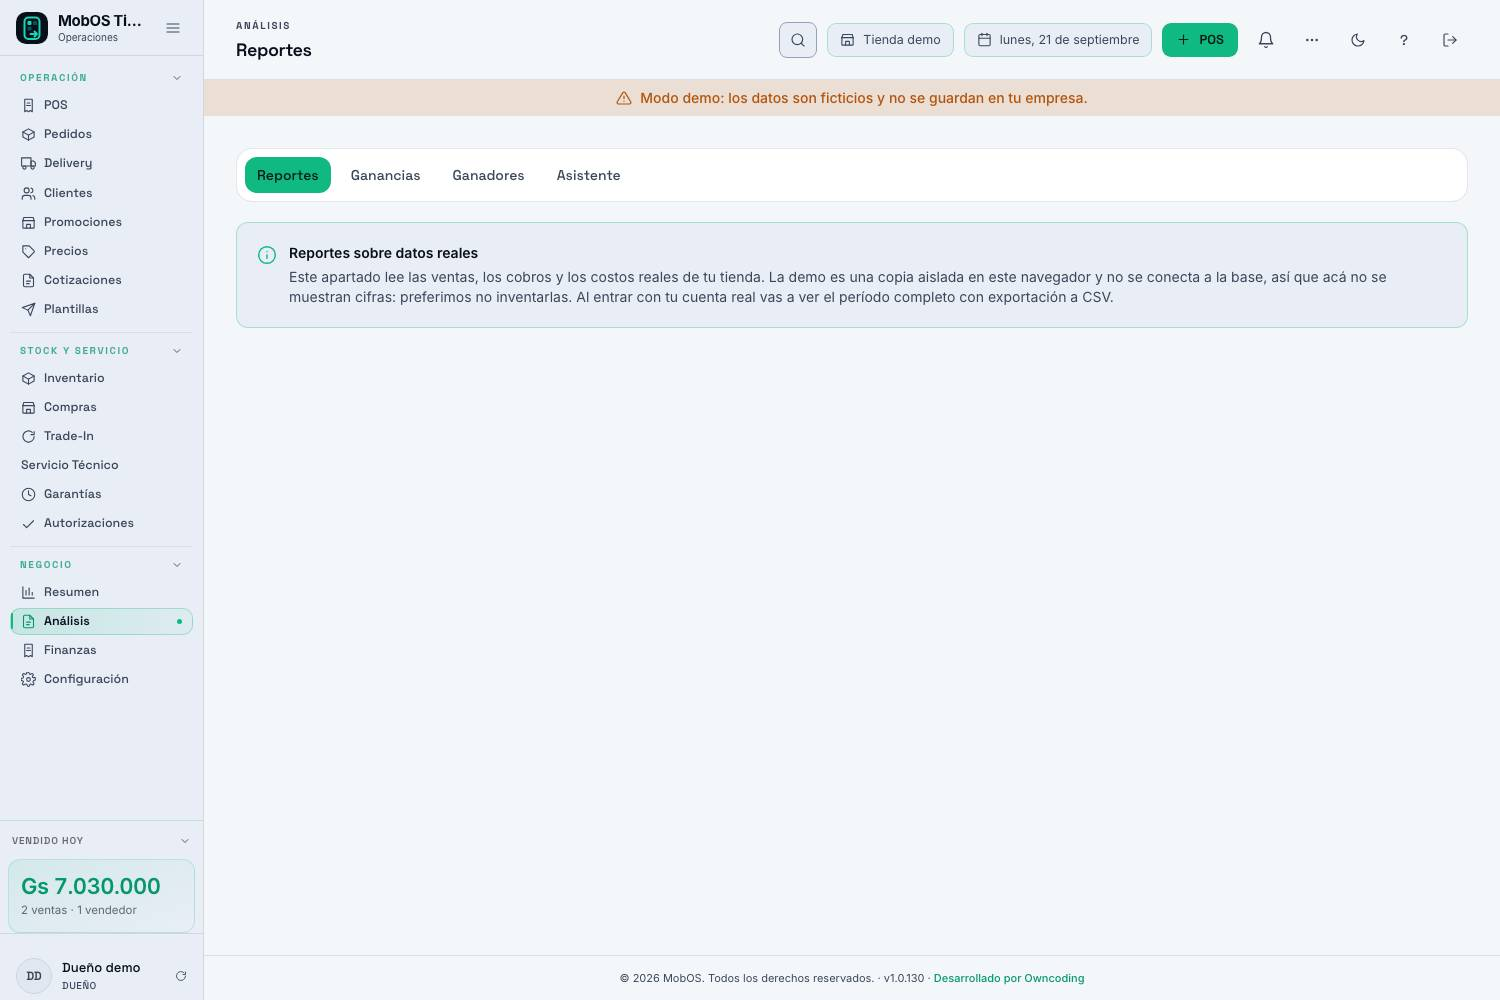
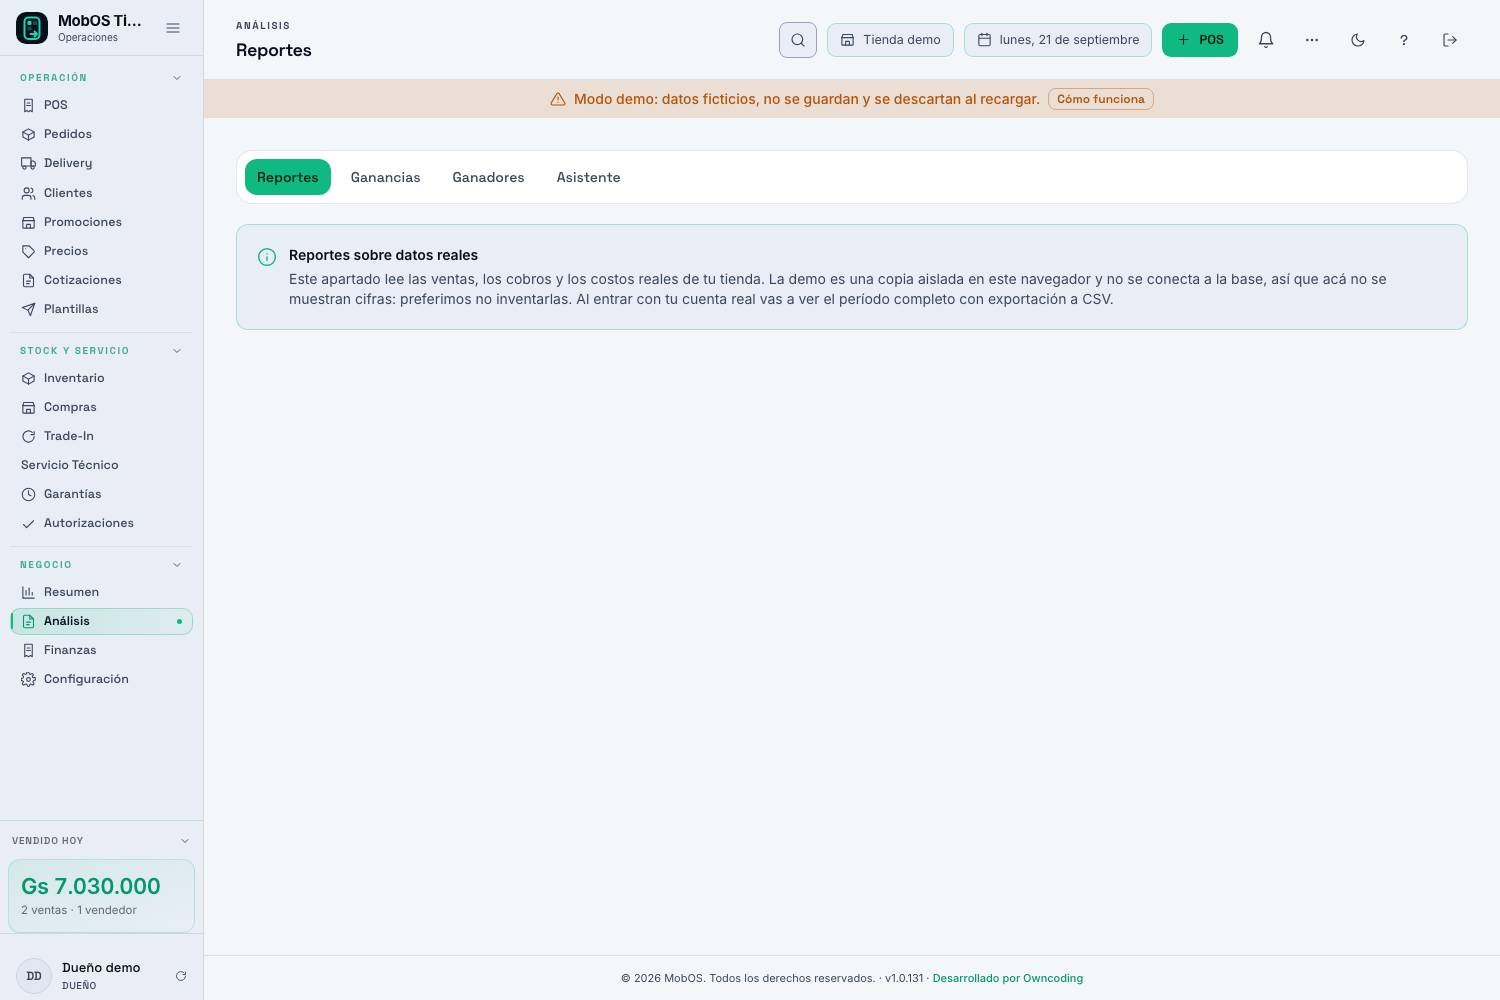
test(qa): estado de v1.0.131 en las sondas de aceptación (Refs #171, #209)
La sonda de producción informa el lote pendiente con un marcador propio
(`fin:gastos-tipo`) en vez del texto del aviso de portada, que comparte con
Reportes. `npm run release:smoke` confirma v1.0.131 desplegado con la
unificación (#171) verificada; el #209 de Finanzas queda documentado como
pendiente de integrar.

diff --git a/docs/qa/171/README.md b/docs/qa/171/README.md
@@ -94,13 +94,9 @@ dominio del shell (MOS-DSN/MOS-PLT), se reporta.
   API integrada de `@/lib/ultimoUsado` y fix de demo sin `localStorage`):
   **55/55** (servidor vs SQL) · **14/14** (UI) · **6/6** (producción) · **6/6**
   (#209) · e2e 30/30 + smoke 7/7.
-- `origin/main` avanzó a `3546121` (notas de v1.0.131; el helper de #209 ya está
-  integrado en main y este slot lo adoptó sin definir uno propio). El lote de
-  este slot —el aviso de truncado y el #209 de Finanzas— **todavía no está
-  integrado**; la versión desplegada sigue siendo **v1.0.130** (mismo bundle
-  `index-BaixACwo.js`), así que la sonda de producción documenta lo desplegado:
-  vistas unificadas presentes, endpoints con sesión y demo sin llamadas reales.
-  El aviso de truncado se verifica localmente forzando `truncated`.
-- Cuando el integrador despliegue, se repite
-  `node scripts/qa-171-resumen-analisis-produccion.mjs` (solo lectura) y se
-  espera que el bundle incluya también el aviso nuevo.
+- **Producción v1.0.131** (confirmado con `npm run release:smoke`, bundle nuevo
+  `index-CnbxgsKC.js`): la sonda de producción da 6/6 — el build desplegado ya
+  incluye la unificación (vistas, endpoints con sesión, demo sin llamadas
+  reales). El **lote pendiente de este slot** (aviso de portada + #209 FIN) no
+  está en el bundle desplegado, según el marcador `fin:gastos-tipo` que informa
+  la misma sonda. Cuando el integrador lo despliegue, se repite la sonda.

diff --git a/docs/qa/209/README.md b/docs/qa/209/README.md
@@ -57,9 +57,9 @@ alineado con la auditoría del demo.
 
 ## Estado en producción
 
-El lote todavía **no está integrado** en `main` (`3546121`, notas de v1.0.131)
-ni desplegado (producción sigue en v1.0.130): el patrón es de frontend, así que
-su verificación es la local de este documento. Cuando el integrador despliegue,
-se repite la sonda (y la de #171) contra el demo público; la de #171 ya
-documenta el estado desplegado (`docs/qa/171/produccion.json`, 6/6 con las
-vistas unificadas).
+`main` está en v1.0.131 y la sonda de producción de #171 confirma que la
+unificación está desplegada; el **#209 de Finanzas todavía no está integrado**
+(la sonda informa que el marcador `fin:gastos-tipo` no aparece en el bundle).
+La verificación de este patrón es la local de este documento más el e2e; cuando
+el integrador despliegue, se repite `scripts/qa-209-finanzas-ultimo-usado.mjs`
+(solo lectura) contra el build publicado.
